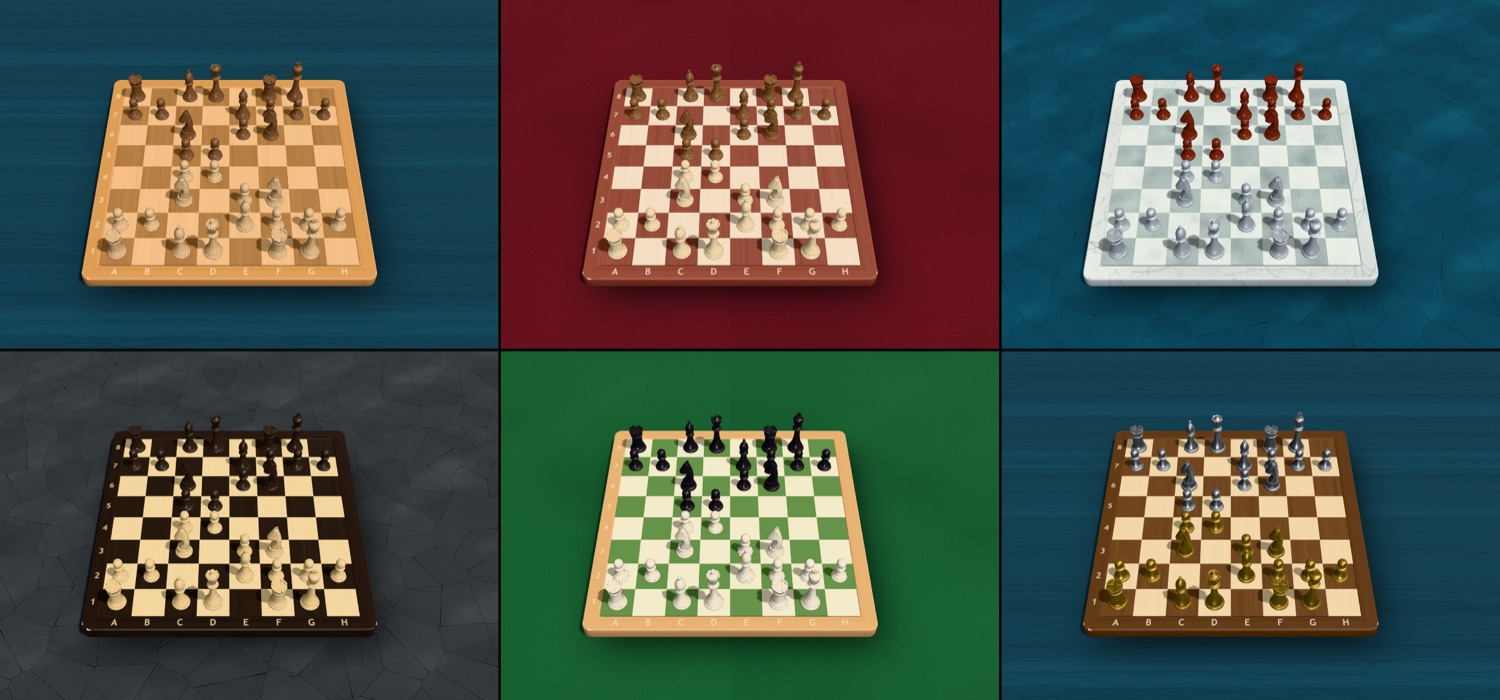
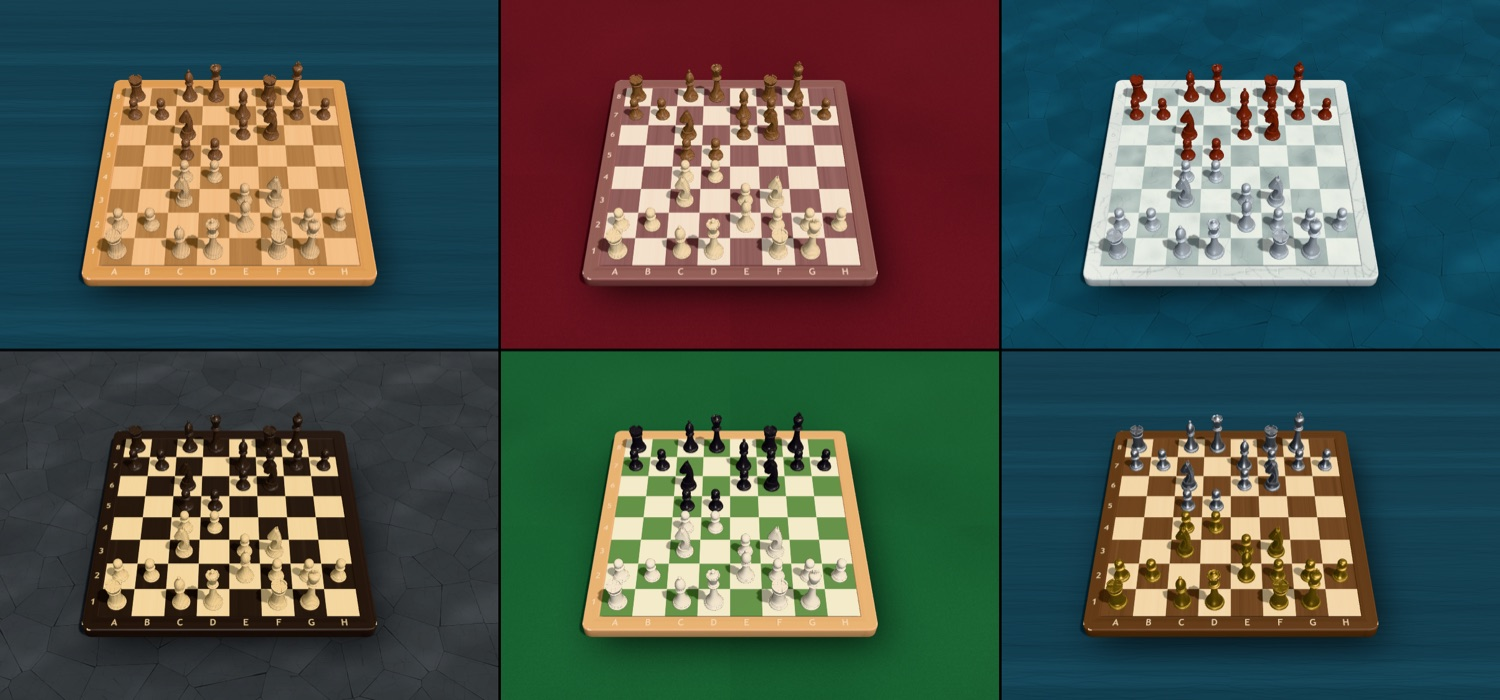
fix: tune Mahogany to the console reference
Measured side by side with the console screenshot, the dark squares and frame
were too saturated and brown. They now take the reference's rose-brown tone:
light squares within delta E 5.7 and dark squares within 6.5 of it. The README
gallery is re-rendered.

Changed region(s): [[0.368, 0.09, 0.5827, 0.42]]

diff --git a/src/scene/themes.ts b/src/scene/themes.ts
@@ -153,9 +153,9 @@ export const BOARD_THEMES: readonly BoardTheme[] = [
   {
     id: 'mahogany',
     label: 'Mahogany',
-    light: wood('#f0e2cf', '196,160,128', '255,248,236', 18, 0.45, 3),
-    dark: wood('#8c5248', '84,36,28', '186,120,104', 24, 0.6, 3),
-    frame: wood('#8d5146', '74,30,22', '190,124,108', 16, 0.65, 5),
+    light: wood('#efe4d8', '196,160,128', '255,248,236', 18, 0.45, 3),
+    dark: wood('#866062', '82,48,50', '182,138,138', 24, 0.6, 3),
+    frame: wood('#88605e', '72,40,40', '182,136,134', 16, 0.65, 5),
     labelColour: 'rgba(248,226,214,0.85)',
     labelShadow: 'rgba(60,20,14,0.4)',
     edgeTint: [1.1, 1.0, 1.05],
